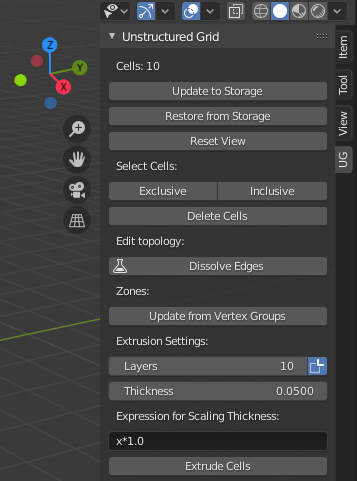
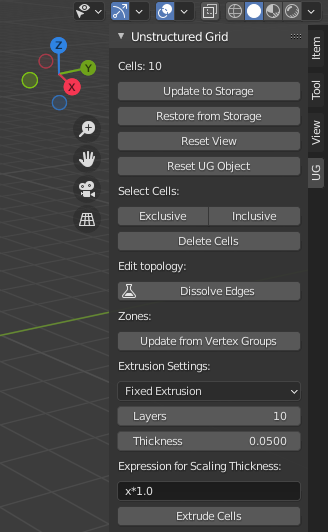
Add documentation of Shell Extrusion Method (#4)
- Also minor changes to GUI for extrusion method selection

diff --git a/__init__.py b/__init__.py
@@ -145,19 +145,19 @@ class UGProperties(bpy.types.PropertyGroup):
             (
                 "fixed",
                 "Fixed Extrusion",
-                "Use fixed normal direction and length for extrusion",
+                "Use Fixed Vertex Normal Direction and Length for Extrusion",
                 0,
             ),
             (
                 "hyperbolic",
-                "Hyperbolic Extrusion",
-                "Use experimental hyperbolic extrusion method",
+                "Hyperbolic Extrusion (experimental!)",
+                "Use Experimental Hyperbolic Extrusion Method",
                 1,
             ),
             (
                 "shell",
-                "Shell Extrusion (under development!)",
-                "Use experimental shell extrusion method",
+                "Shell Extrusion",
+                "Shell Boundary Layer Extrusion Method",
                 2,
             ),
         },
@@ -346,9 +346,9 @@ class VIEW3D_PT_UG_GUI:
         row = layout.row()
         row.label(text="Extrusion Settings:")
         row = layout.row()
-        row.prop(ug_props, "extrusion_layers", text="Layers")
+        row.prop(ug_props, "extrusion_method", text="")
         row = layout.row()
-        row.prop(ug_props, "extrusion_method")
+        row.prop(ug_props, "extrusion_layers", text="Layers")
         row = layout.row()
         row.prop(ug_props, "extrusion_thickness", text="Thickness")
         row = layout.row()

diff --git a/docs/ug.rst b/docs/ug.rst
@@ -121,30 +121,59 @@ Extrusion of New Cells
 **Extrude Cells** operator creates new cells from face selection based
 on Extrusion Settings shown on the Toolbar.
 
-- *Layers* specifies the number of layers for extrusion
+- *Extrustion Method* drop-down menu lists options for available extrusion methods:
 
-- *Use Fixed Extrusion Method* button with icon determines the method
-  used in extrusion:
+  - **Fixed Extrusion Method** is the most basic method. New cells are
+    created by extruding each selected face vertex towards the vertex
+    normal direction.
 
-  - **Fixed extrusion method** is used when the button is on
-    (default). Extrusion direction is fixed to initial vertex normal
-    direction.
+  - **Shell Extrusion Method** is a tool for adding flat cells on top
+    of an existing surface mesh. This method extrudes each selected
+    vertex in a direction, which is iteratively adjusted by
+    surrounding vertex extrusion directions. Idea is to apply a
+    direction which reduces the risk of intersections near convex
+    shapes. This method is meant for adding thin boundary layers on
+    top of a boundary surface mesh.
 
-  - **Hyperbolic extrusion method** is applied when the button is off.
-    This is an experimental extrusion method which is under
-    development and is not currently supported.
+    .. warning::
 
-- *Thickness* specifies the height for the extruded cell layer.
+        This method may create highly non-orthogonal or skewed
+        faces. The method creates intersecting faces for highly convex
+        shapes and shapes where two extrusion fronts meet.
+
+    - **Ensure Layer Thickness** option scales extrusion length for
+      the Shell Extrusion Method so that the layer thickness specified
+      in the *Thickness* option is approximately reached. This option
+      may cause increase of layer thickness for convex shapes. If this
+      option is disabled, then vertex extrusion length is equal to
+      *Thickness*.
+
+  - **Hyperbolic Extrusion Method** is a highly experimental
+    hyperbolic extrusion method which is neither documented nor
+    supported.
+
+- *Layers* specifies the number of cell layers for extrusion
+
+- *Thickness* specifies the length of side edges for extruded cells or
+  target height for the extruded cell layer.
 
 - *Expression for Scaling Thickness* allows user to specify a Python
   expression which updates *Thickness* after extrusion of each
   layer. *x* in the expression is thickness. The default value
   *x\*1.0* will keep thickness constant.
 
+Note: Boundary vertices are always extruded in the vertex normal
+direction.
+
 To extrude cells, first select one or more faces in the Unstructured
 Grid object (or any mesh object for first extrusion), then run
 **Extrude Cells** operator by clicking on the named button in the
 toolbar.
+
+The following image illustrates the difference between the Fixed
+Extrusion (on left) and the Shell Extrusion (on right) methods:
+
+.. image:: images/ug_fixed_vs_shell_extrusion.png
 
 
 Storage and View Operators
